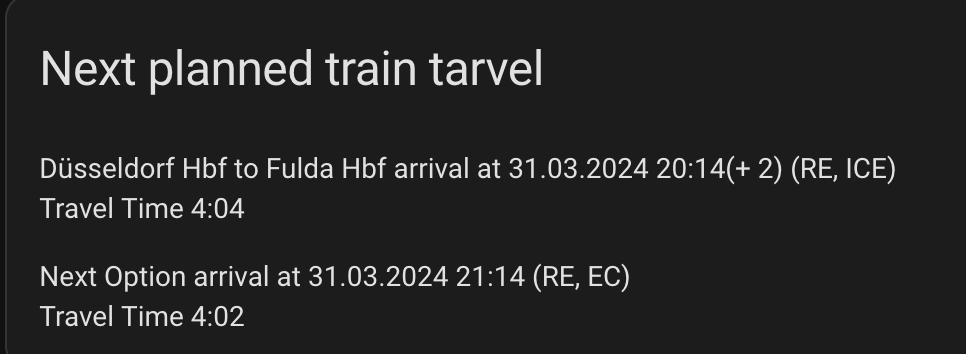
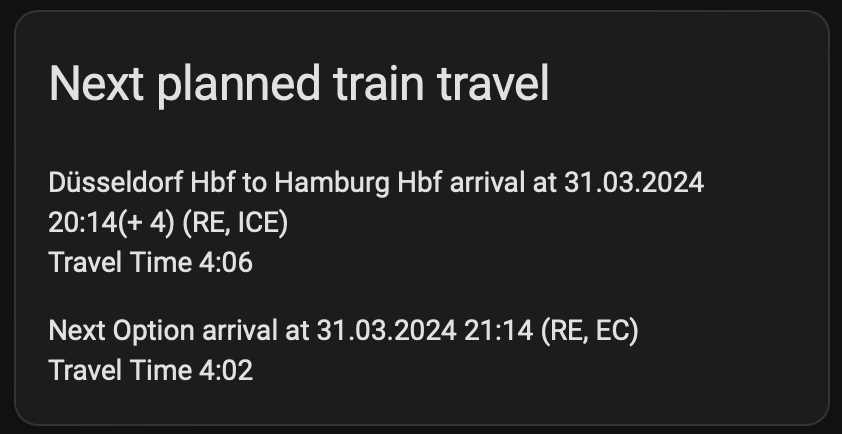
chore: update template example screenshot
To remove typo

Changed region(s): [[0.0309, 0.3729, 0.9264, 0.6525], [0.0309, 0.7147, 0.772, 0.9322], [0.0309, 0.1243, 0.6485, 0.2797]]

diff --git a/README.md b/README.md
@@ -53,7 +53,7 @@ It can be for example utilized in a template to display when the next planned tr
 
 <details>
     <summary>
-        <img alt="Example of a template showing a planned train travel ongoing between Düsseldorf Hbf to Fulda Hbf" src="images/template-config.png" />
+        <img alt="Example of a template showing a planned train travel ongoing between Düsseldorf Hbf to Hamburg Hbf" src="images/template-config.png" />
     </summary>
 
 This can be rendered with the following template. Make sure to adjust the sensor to the name which is including your home station.
